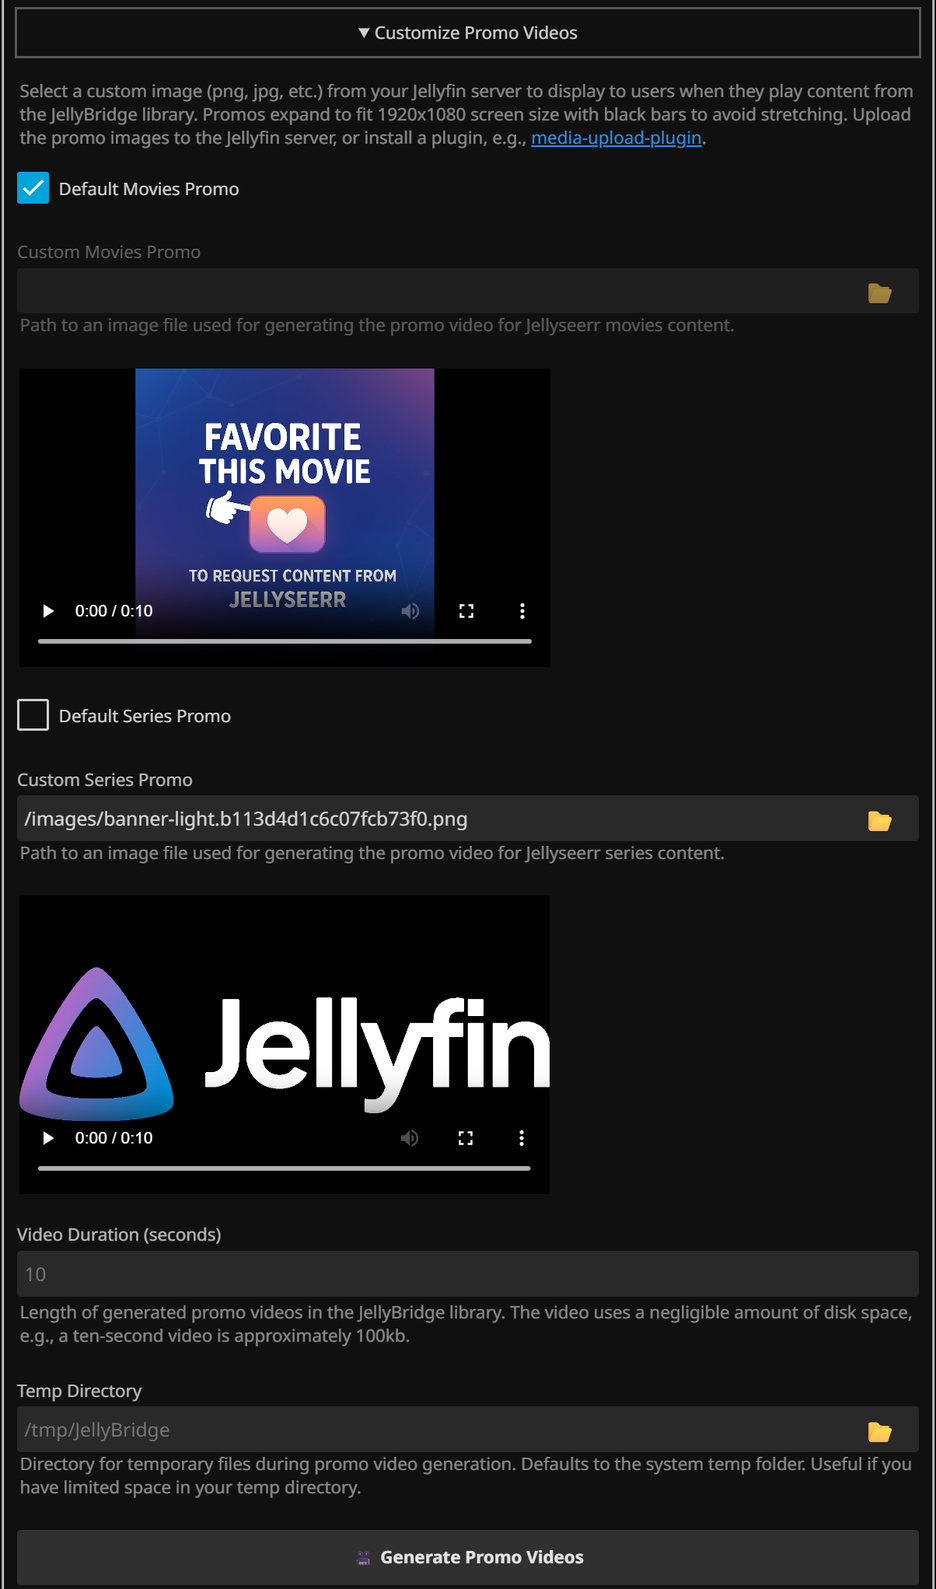
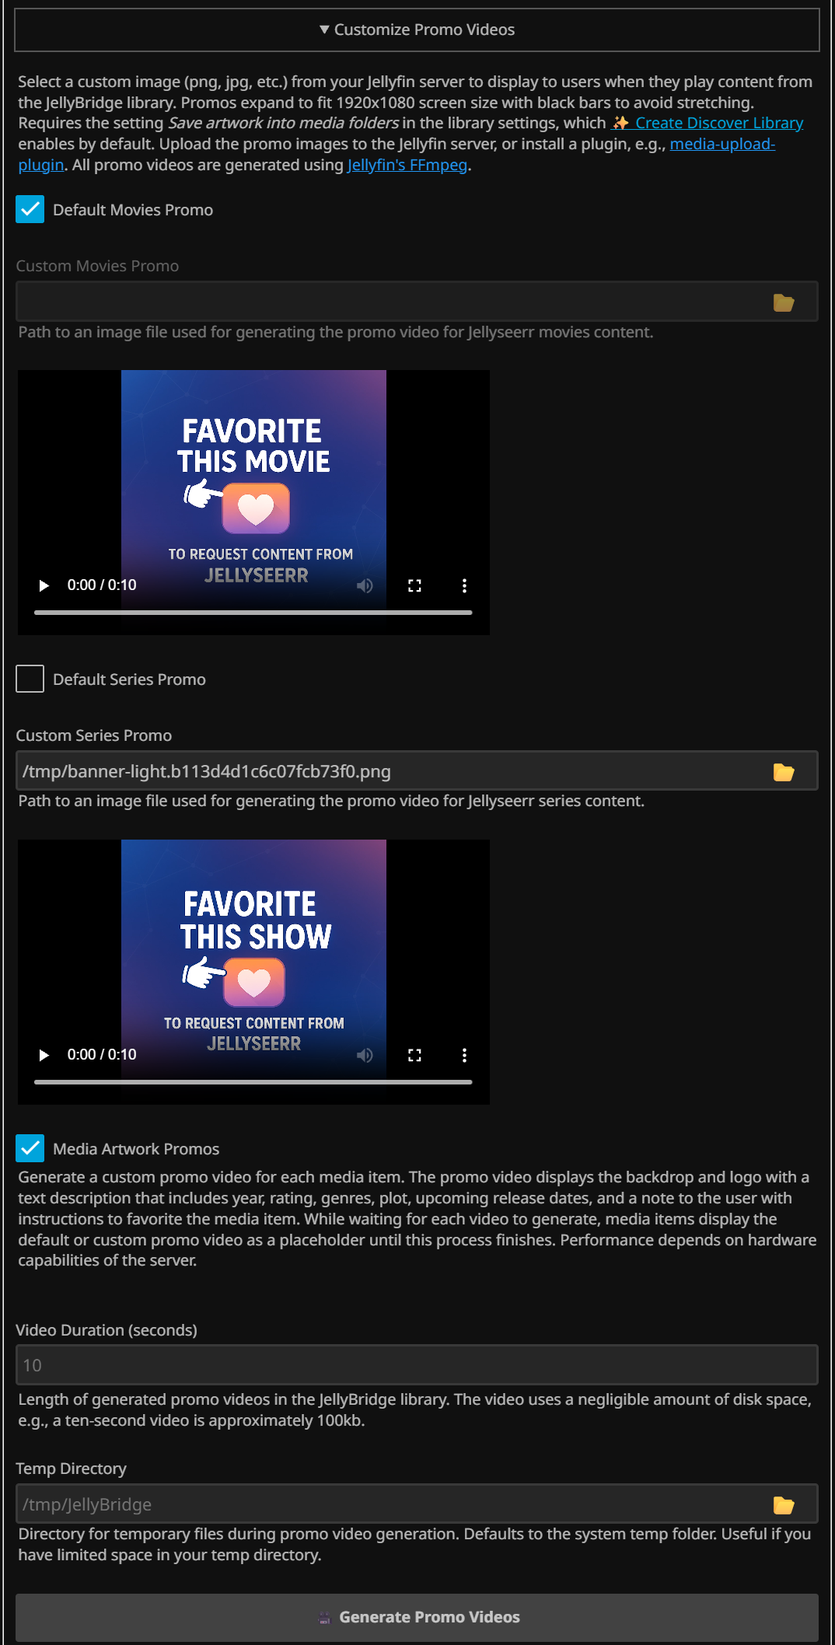
Release JellyBridge v5.2 - New features by @MoFaye: Jellyfin global search shows results from Jellyseerr (#78), use media artwork for promo videos (#79 and #82), add filters on discover import for TMDB ratings (#81). See github page for upcoming changes in JellyBridge v6.

Changed region(s): [[0.0, 0.0, 1.0, 1.0]]

diff --git a/src/Jellyfin.Plugin.JellyBridge/Configuration/ConfigurationPage.html b/src/Jellyfin.Plugin.JellyBridge/Configuration/ConfigurationPage.html
@@ -733,6 +733,18 @@
                             Configure how content is discovered and imported from Jellyseerr. Select which geographic region and networks to pull content from, control how much content is fetched, and set retention policies for discovered items.
                         </div>
 
+                        <div class="checkboxContainer checkboxContainer-withDescription" id="EnableSearchResultsContainer" data-depends-off="UseNetworkFolders">
+                            <label class="emby-checkbox-label">
+                                <input id="EnableSearchResults" type="checkbox" is="emby-checkbox" data-embycheckbox="true" class="emby-checkbox" />
+                                <span class="checkboxLabel">Search Integration</span>
+                                <span class="checkboxOutline">
+                                    <span class="material-icons checkboxIcon checkboxIcon-checked check" aria-hidden="true"></span>
+                                    <span class="material-icons checkboxIcon checkboxIcon-unchecked" aria-hidden="true"></span>
+                                </span>
+                            </label>
+                            <div class="fieldDescription">Directly query Jellyseerr when searching from Jellyfin. Users with access to the JellyBridge Library can search for new media content, open the content from the results, and request content from Jellyseerr. The global search in Jellyfin displays the Jellyseerr content immediately. Opening a result will begin to import the media item into the JellyBridge library. <i>Note: Not compatible with <span class="link" data-target-page="UseNetworkFoldersContainer">Network Folders</span>.</i></div>
+                        </div>
+
                         <div class="inputContainer" id="regionContainer">
                             <div style="display: flex; align-items: center; gap: 10px;">
                                 <div style="flex: 1;">
@@ -799,14 +811,14 @@
                             <div class="fieldDescription">Maximum number of pages to import from the Jellyseerr discover pages for each network. Each page consists of 20 series for each network. This applies to both movies and series discovery. Enter 0 to retrieve ALL pages (try a smaller number first).</div>
                         </div>
 
-                        <div class="inputContainer">
-                            <input id="MinimumRating" type="number" is="emby-input" min="0" max="10" step="0.1" label="Minimum Rating (TMDB)"/>
-                            <div class="fieldDescription">Only import titles rated at least this high on TMDB (0 to 10, e.g. 7). Leave empty or 0 to import every rating. Titles already in the library below it are removed at the next sync. Titles that are not out yet have no rating, so they are left out while this is set.</div>
+                        <div class="inputContainer" id="MinimumRatingContainer" >
+                            <input id="MinimumRating" type="number" is="emby-input" min="0" max="10" step="0.1" label="Minimum Rating"/>
+                            <div class="fieldDescription">Minimum rating on TMDB (0 to 10, e.g. 7) required to import a media item. Default is zero to import all content. This option removes media items that are missing ratings from the import.</div>
                         </div>
 
-                        <div class="inputContainer">
-                            <input id="MinimumVotes" type="number" is="emby-input" min="0" label="Minimum Votes (TMDB)"/>
-                            <div class="fieldDescription">Number of TMDB votes a title needs before its rating counts, so a handful of early votes can't carry it over the Minimum Rating. Used only with a Minimum Rating. A higher number such as 300 (TMDB's own Top Rated list) leaves out more new releases.</div>
+                        <div class="inputContainer" id="MinimumVotesContainer" data-depends-on="MinimumRating">
+                            <input id="MinimumVotes" type="number" is="emby-input" min="0" label="Minimum Votes"/>
+                            <div class="fieldDescription">Minimum number of votes (TMDB) a media item needs before applying the Minimum Rating. This removes obscure media items from the Jellyseerr import. A higher number such as 300 (TMDB's own Top Rated list) skips newer releases.</div>
                         </div>
 
                         <div class="inputContainer">
@@ -848,18 +860,6 @@
                             </label>
                             <div class="fieldDescription">The JellyBridge library will hide movies and series that are found in your other Jellyfin libraries.</div>
                         </div>
-
-                        <div class="checkboxContainer checkboxContainer-withDescription">
-                            <label class="emby-checkbox-label">
-                                <input id="ResponsiveFavoriteRequests" type="checkbox" is="emby-checkbox" data-embycheckbox="true" class="emby-checkbox" />
-                                <span class="checkboxLabel">Responsive Favorite Requests</span>
-                                <span class="checkboxOutline">
-                                    <span class="material-icons checkboxIcon checkboxIcon-checked check" aria-hidden="true"></span>
-                                    <span class="material-icons checkboxIcon checkboxIcon-unchecked" aria-hidden="true"></span>
-                                </span>
-                            </label>
-                            <div class="fieldDescription">Immediately request favorited items for all users from Jellyseerr after any JellyBridge media is favorited. This allows for more responsive favorite requests syncing to Jellyseerr.</div>
-                        </div>
                         
                         <div class="checkboxContainer checkboxContainer-withDescription" id="UseSeasonPlaceholdersContainer">
                             <label class="emby-checkbox-label">
@@ -896,16 +896,17 @@
                             </label>
                             <div class="fieldDescription">By default, all requests will be for non-4k content. Enable this option to request 4k content for users with the Request 4K Movies or Request 4K Series permissions in Jellyseerr.</div>
                         </div>
-                        <div class="checkboxContainer checkboxContainer-withDescription" id="EnableSearchResultsContainer">
+
+                        <div class="checkboxContainer checkboxContainer-withDescription">
                             <label class="emby-checkbox-label">
-                                <input id="EnableSearchResults" type="checkbox" is="emby-checkbox" data-embycheckbox="true" class="emby-checkbox" />
-                                <span class="checkboxLabel">Jellyseerr Results in Search</span>
+                                <input id="ResponsiveFavoriteRequests" type="checkbox" is="emby-checkbox" data-embycheckbox="true" class="emby-checkbox" />
+                                <span class="checkboxLabel">Responsive Favorite Requests</span>
                                 <span class="checkboxOutline">
                                     <span class="material-icons checkboxIcon checkboxIcon-checked check" aria-hidden="true"></span>
                                     <span class="material-icons checkboxIcon checkboxIcon-unchecked" aria-hidden="true"></span>
                                 </span>
                             </label>
-                            <div class="fieldDescription">Show titles from Jellyseerr that are not in any library below Jellyfin's search results. Opening one adds it to the JellyBridge library, where it can be favorited to request it. Only for users who can see the JellyBridge library. <i>Note: Not available with <span class="link" data-target-page="UseNetworkFoldersContainer">Network Folders</span>.</i></div>
+                            <div class="fieldDescription">Immediately request favorited items for all users from Jellyseerr after any JellyBridge media is favorited. This allows for more responsive favorite requests syncing to Jellyseerr.</div>
                         </div>
 
                         <div class="checkboxContainer checkboxContainer-withDescription">
@@ -935,7 +936,7 @@
                         <summary>Customize Promo Videos</summary>
                         <br>
                         <div class="fieldDescription" style="margin-bottom: 16px;">
-                            Select a custom image (png, jpg, etc.) from your Jellyfin server to display to users when they play content from the JellyBridge library. Promos expand to fit 1920x1080 screen size with black bars to avoid stretching. Upload the promo images to the Jellyfin server, or install a plugin, e.g., <a target="_blank" href="https://github.com/grandguyjs/media-upload-plugin" style="color: #2196f3;">media-upload-plugin</a>.
+                            Select a custom image (png, jpg, etc.) from your Jellyfin server to display to users when they play content from the JellyBridge library. Promos expand to fit 1920x1080 screen size with black bars to avoid stretching. Requires the setting <i>Save artwork into media folders</i> in the library settings, which <span class="link" data-target-page="createDefaultLibraryContainer">✨ Create Discover Library</span> enables by default. Upload the promo images to the Jellyfin server, or install a plugin, e.g., <a target="_blank" href="https://github.com/grandguyjs/media-upload-plugin" style="color: #2196f3;">media-upload-plugin</a>. All promo videos are generated using <a target="_blank" href="https://jellyfin.org/docs/general/post-install/transcoding/hardware-acceleration/" style="color: #2196f3;">Jellyfin's FFmpeg</a>.
                         </div>
 
                         <div class="checkboxContainer checkboxContainer-withDescription">
@@ -985,13 +986,13 @@
                         <div class="checkboxContainer checkboxContainer-withDescription">
                             <label class="emby-checkbox-label">
                                 <input id="UseTitlePromos" type="checkbox" is="emby-checkbox" data-embycheckbox="true" class="emby-checkbox" />
-                                <span class="checkboxLabel">Title Artwork Promos</span>
+                                <span class="checkboxLabel">Media Artwork Promos</span>
                                 <span class="checkboxOutline">
                                     <span class="material-icons checkboxIcon checkboxIcon-checked check" aria-hidden="true"></span>
                                     <span class="material-icons checkboxIcon checkboxIcon-unchecked" aria-hidden="true"></span>
                                 </span>
                             </label>
-                            <div class="fieldDescription">Make each promo video from the title's own backdrop and logo, with its year, rating, genres and plot, the release date of upcoming titles, and a note to favorite it to request it. Titles use the promo above until Jellyfin has saved their backdrop, then switch on a later sync. Needs <i>Save artwork into media folders</i> in the library settings, which <span class="link" data-target-page="createDefaultLibraryContainer">✨ Create Discover Library</span> turns on.</div>
+                            <div class="fieldDescription">Generate a custom promo video for each media item. The promo video displays the backdrop and logo with a text description that includes year, rating, genres, plot, upcoming release dates, and a note to the user with instructions to favorite the media item. While waiting for each video to generate, media items display the default or custom promo video as a placeholder until this process finishes. Performance depends on hardware capabilities of the server.</div>
                         </div>
                         <br>
 

diff --git a/src/Jellyfin.Plugin.JellyBridge/Configuration/ConfigurationPage.js b/src/Jellyfin.Plugin.JellyBridge/Configuration/ConfigurationPage.js
@@ -1754,6 +1754,16 @@ function savePluginConfiguration(page) {
 // DEPENDENCY CHECKBOXES
 // ==========================================
 
+// A dependency can be a checkbox or a text/number box (e.g. Minimum Rating gating Minimum Votes).
+// Text/number boxes have no "checked" state: treat "has a value other than zero" as on.
+function isDependencyActive(control) {
+    if (control.type === 'checkbox' || control.type === 'radio') {
+        return control.checked;
+    }
+    const v = (control.value || '').trim();
+    return v !== '' && Number(v) !== 0;
+}
+
 function initDependentCheckboxes(page) {
     // Find all dependent elements
     const dependentElementsOn = page.querySelectorAll('[data-depends-on]');
@@ -1772,7 +1782,10 @@ function initDependentCheckboxes(page) {
         // Add change listener to the checkbox
         checkbox.addEventListener('change', function() {
             updateStartupSyncDescription();
-            toggleDependentElement(element, this.checked);
+            toggleDependentElement(element, isDependencyActive(this));
+        });
+        checkbox.addEventListener('input', function() {
+            toggleDependentElement(element, isDependencyActive(this));
         });
         
         // Add click listener to the dependent element when disabled
@@ -1780,12 +1793,12 @@ function initDependentCheckboxes(page) {
             if (this.classList.contains('disabled')) {
                 e.preventDefault();
                 e.stopPropagation();
-                scrollToCheckboxAndHighlight(checkbox);
+                scrollToContainerAndHighlight(checkbox);
             }
         });
         
         // Set initial state
-        toggleDependentElement(element, checkbox.checked);
+        toggleDependentElement(element, isDependencyActive(checkbox));
     });
     
     // Loop through each dependent element
@@ -1801,7 +1814,10 @@ function initDependentCheckboxes(page) {
         // Add change listener to the checkbox
         checkbox.addEventListener('change', function() {
             updateStartupSyncDescription();
-            toggleDependentElement(element, !this.checked);
+            toggleDependentElement(element, !isDependencyActive(this));
+        });
+        checkbox.addEventListener('input', function() {
+            toggleDependentElement(element, !isDependencyActive(this));
         });
         
         // Add click listener to the dependent element when disabled
@@ -1809,12 +1825,12 @@ function initDependentCheckboxes(page) {
             if (this.classList.contains('disabled')) {
                 e.preventDefault();
                 e.stopPropagation();
-                scrollToCheckboxAndHighlight(checkbox);
+                scrollToContainerAndHighlight(checkbox);
             }
         });
         
         // Set initial state
-        toggleDependentElement(element, !checkbox.checked);
+        toggleDependentElement(element, !isDependencyActive(checkbox));
     });
 }
 
@@ -1929,26 +1945,26 @@ function browseFolder(inputElement, title, includeFiles = false) {
     });
 }
 
-// Scroll to a checkbox and highlight it
-// targetCheckbox: Query selector string or element for the checkbox to scroll to
-function scrollToCheckboxAndHighlight(targetCheckbox) {
+// Scroll to a container and highlight it
+// targetContainer: Query selector string or element for the checkbox to scroll to
+function scrollToContainerAndHighlight(targetContainer) {
     // Get the target checkbox (either from selector string or element)
-    const checkbox = typeof targetCheckbox === 'string' 
-        ? document.querySelector(targetCheckbox)
-        : targetCheckbox;
+    const containerScroll = typeof targetContainer === 'string' 
+        ? document.querySelector(targetContainer)
+        : targetContainer;
     
-    if (checkbox) {
-        checkbox.scrollIntoView({ behavior: 'smooth', block: 'center' });
+    if (containerScroll) {
+        containerScroll.scrollIntoView({ behavior: 'smooth', block: 'center' });
         
-        // Briefly highlight the checkbox
-        const container = checkbox.closest('.checkboxContainer');
-        if (container) {
-            container.style.transition = 'background-color 0.3s ease';
-            container.style.backgroundColor = 'rgba(33, 150, 243, 0.2)';
+        // Briefly highlight the container
+        const containerHighlight = containerScroll.closest('.checkboxContainer') || containerScroll.closest('.inputContainer');
+        if (containerHighlight) {
+            containerHighlight.style.transition = 'background-color 0.3s ease';
+            containerHighlight.style.backgroundColor = 'rgba(33, 150, 243, 0.2)';
             setTimeout(() => {
-                container.style.backgroundColor = '';
+                containerHighlight.style.backgroundColor = '';
                 setTimeout(() => {
-                    container.style.transition = '';
+                    containerHighlight.style.transition = '';
                 }, 300);
             }, 1000);
         }

diff --git a/README.md b/README.md
@@ -11,13 +11,18 @@
 
 A Jellyfin plugin that bridges Jellyfin with Jellyseerr (and Seerr\*) for seamless movie and series discovery and download requests.
 
+## 📣 Changes coming in Version 6.0
+- More JellyBridge libraries! Release date is December 2nd. You will see a pop-up notice of the upgrade to your JellyBridge libraries. Read about it in [PR #84](https://github.com/kinggeorges12/JellyBridge/pull/84).
+![JellyBridge Library](https://raw.githubusercontent.com/MoFaye/JellyBridge/24eeaba0f9112122574a49ff04e8d09df80f92de/pr-discover-libraries.png)
+
 ## ✨ Features
 
 - **Native Jellyfin Support**: Whether you use Android TV or Kodi to sync videos and favorites with Jellyfin, this plugin has you covered
-- **New Discover Content**: Updates movies and series listings from selected networks (Netflix, Prime Video, etc.)
+- **New Discover Content**: Updates movies and series listings from selected networks (e.g., Netflix), Trending, or New Releases
 - **Make Jellyseerr Requests**: Enables requesting new movies and series directly from a Jellyfin library, making this accessible from mobile apps, Android TV, and even Kodi Sync Queue!
 - **More Content**: Integrates with [Jellyseerr's existing services](https://docs.seerr.dev/using-jellyseerr/settings/services) when you mark movies or series as favorites in Jellyfin
 - **Scheduled Tasks**: Automatically syncs movies and series on a configurable schedule and on Jellyfin startup
+- **Search Integration**: Provides Jellyseerr results directly in the native Jellyfin search
 - **Smart Exclusion**: Uses native Jellyfin configuration files to exclude movies and series that already exist in your other Jellyfin libraries
 - **Shuffle Content**: Native support on Android TV for random or smart-sort for browsing discover content, always fresh!
 
@@ -61,12 +66,19 @@ After installing Jellyseerr, disable the JellyBridge library to prevent requests
 
 Browse with Kodi and request content from Jellyfin via the Jellyfin add-on.
 
-![Jellyfin for Kodi Add-on](Screenshots/Kodi.png)
- 
-For native Jellyfin support, install [Kodi Sync Queue](https://github.com/jellyfin/jellyfin-plugin-kodisyncqueue). For plugin setup, see the official [Jellyfin Kodi client docs](https://jellyfin.org/docs/general/clients/kodi/). *Note*: Incompatible with JellyCon for Kodi.
+![Jellyfin for Kodi Add-on](Screenshots/Kodi-Jellyfin.png)
 
-- **Discover Content**: Open Add-ons → Video Add-ons → Jellyfin → JellyBridge Library (Movies or Series) → Random Items / Recommended Items / any other view
-- **Jellyseer Requests**: Open any Library view → right-click a movie or series → Jellyfin options → Add to favorites
+For Kodi add-on setup, see the official [Jellyfin Kodi client docs](https://jellyfin.org/docs/general/clients/kodi/). Restart Kodi after installing the Jellycon add-on to load the native Jellyfin context (right-click) menu. For faster Jellyfin performance, install [Kodi Sync Queue](https://github.com/jellyfin/jellyfin-plugin-kodisyncqueue). *Note*: Search Integration is only compatible with Jellycon.
+
+- **Discover Content**:
+   - Jellycon: Open Add-ons → Video Add-ons → Jellycon → Jellyfin Libraries → JellyBridge Library (Movies or Series) → Show All
+   - Jellyfin for Kodi: Open Add-ons → Video Add-ons → Jellyfin → JellyBridge Library (Movies or Series) → Random Items / Recommended Items / any other view
+- **Jellyseer Requests**:
+   - Jellycon → Open any Library view → right-click a movie or series (open series to favorite season, if enabled) → Set Favourite
+   - Jellyfin for Kodi → Open any Library view → right-click a movie or series (open series to favorite season, if enabled) → Jellyfin options → Add to favorites
+- **Search Integration**: Jellycon → Add-on Actions → Search → Jellyfin options → Set Favourite
+
+![Jellycon Add-on](Screenshots/Kodi-Jellycon.png)
 
 ## 📦 Installation
 
@@ -139,9 +151,12 @@ Access the configuration using the plugin page on the host machine at: `http://l
 
 ![Import Discover Content](Screenshots/Import.png)
 
+- **Search Integration**: Add Jellyseerr results to the Jellyfin search and import discover content when opening media content
 - **Watch Region**: Which geographic region to search for available networks
 - **Network Services**: Choose networks to import discover content from
 - **Discover Pages**: The number of pages to import per network
+- **Minimum Rating**: The lower limit for ratings on TMDB (1-10 stars) when importing media content
+- **Minimum Votes**: The minimum rating must have at least this many votes on TMDB before importing media content
 - **Content Retention Time (days)**: How long to keep discover content before automatic cleanup
 - **Import Discover Content from Jellyseerr**: Manually trigger the task to sync media content
 
@@ -150,10 +165,10 @@ Access the configuration using the plugin page on the host machine at: `http://l
 ![Manage Favorite Requests](Screenshots/Manage.png)
 
 - **Hide Existing Discover Content**: Excludes movies and series from the JellyBridge library if they already exist in your other Jellyfin libraries
-- **Responsive Favorite Requests**: Send requests to Jellyseerr immediately when favoriting items
 - **Request Seasons**: Allow users to request individual seasons from a series
 - **Request Only First Season**: New favorited series will only request the first season instead of the entire series
 - **Request 4k Content**: Request 4k media content if the Jellyseerr user has permission
+- **Responsive Favorite Requests**: Send requests to Jellyseerr immediately when favoriting items
 - **Favorite Cleanup**: Unfavorite items from the JellyBridge library after requesting them from Jellyseerr
 - **Send Discover Library Favorite Requests to Jellyseerr**: Manually trigger the task to sync favorites
 
@@ -161,8 +176,9 @@ Access the configuration using the plugin page on the host machine at: `http://l
 
 ![Customize Promo Videos](Screenshots/Promo.png)
 
-- **Custom Movies & Series Promo**: Select an image file to generate the promo video for movies and series content.
+- **Custom Movies & Series Promo**: Select an image file to generate the promo video for movies and series content
 - **Default Movies & Series Promo**: The pre-packaged promo video for JellyBridge
+- **Media Artwork Promos**: Customize each movies and series promo video with artwork from the media content
 - **Promo Video Duration**: A short video to teach users how to request the discover content
 - **Temp Directory**: Storage for generating promo video files, usually the operating system default
 - **Generate Promo Videos**: Replace existing promo videos with the custom or default for all movies and series

diff --git a/Version.md b/Version.md
@@ -2,7 +2,7 @@
 
 \* [Seerr v3.0.0 has recently released](https://docs.seerr.dev/blog/seerr-release) as the next iteration of Jellyseerr v2.7.3. The API appears to be unchanged, and my tests have not found any compatibility problems. Enjoy the new release! Please submit any issues with Seerr to this project, and I will try to expedite a fix. As for our documentation, I will wait until the next major update to switch to the new name.
 
-This plugin has been *fully tested using Jellyfin 10.10.7 and 10.11.\* with Jellyseerr 2.7.3 and Seerr 3.0.1. Previous versions lacked compatibility with Jellyfin 10.11.\*, but that has been resolved as of the plugin version 1.3.0.\*! Unknown compatibility with Jellyfin versions before 10.10.0 or after 10.11.6, or Jellyseerr versions before 2.7.3.
+This plugin has been *fully tested using Jellyfin 10.10.7 and 10.11.\* with Jellyseerr 2.7.3 and Seerr 3.5+ (using seerr:latest in docker). Previous versions lacked compatibility with Jellyfin 10.11.\*, but that has been resolved as of the plugin version 1.3.0.\*! Unknown compatibility with Jellyfin versions before 10.10.0 or after 10.11.6, or Jellyseerr versions before 2.7.3.
 
 # 📣 Release Notes
 
